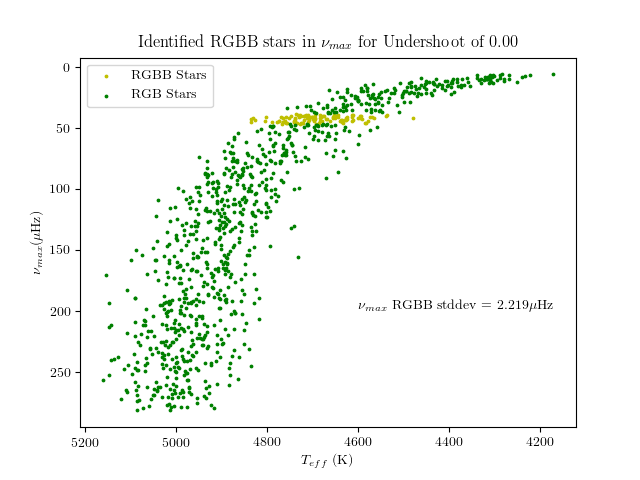
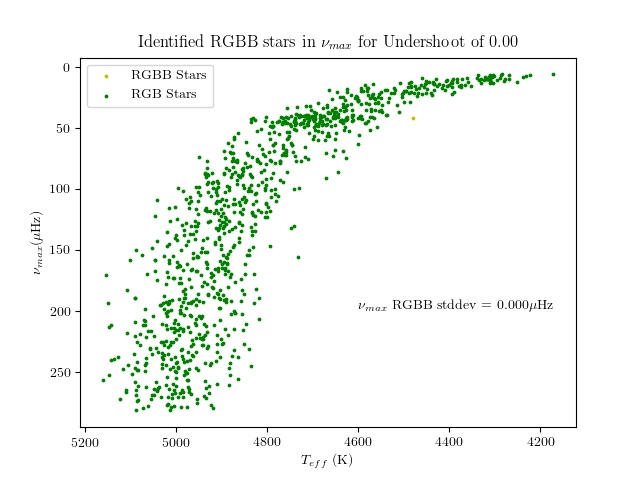
Ran tests on fg/bg likelihood issues for RGBB_Mixmod.py

diff --git a/RGBB_mixmod.py b/RGBB_mixmod.py
@@ -37,23 +37,24 @@ class cModel:
         self.y = _y
 
     def fg(self, p):
-        b, sigb, _, _, _ = p
-        return -0.5 * ((self.x - b) / sigb)**2 - np.log(sigb)
+        b, sigb, _, _, _, _ = p
+        return -0.5 * (((b - self.x) / sigb)**2 + 2*np.log(sigb) + np.log(2*np.pi))
 
     def bg(self, p):
-        _, _, o, sigo, _ = p
-        val = np.abs(self.x).max() + np.abs(self.x).min()
-
-        xn = self.x + val
-        on = np.abs(o)
-
-        return -np.log(xn) -np.log(sigo) - 0.5 * (np.log(xn) - on)**2/sigo**2
-
-
+        _, _, m, c, sigm, _ = p
+        model = m * x + c
+        return -0.5 * (((model - self.y) / sigm)**2 + 2*np.log(sigm) + np.log(2*np.pi))
+    #
     # def bg(self, p):
-    #     _, _, a, c, sigm, _ = p
-    #     M = a + self.x*c
-    #     return -0.5 * ((self.y - M) / sigm)**2 - np.log(sigm)
+    #     _, _, o, sigo, _ = p
+    #     val = np.abs(self.x).max() + np.abs(self.x).min()
+    #
+    #     xn = self.x + val
+    #     on = np.abs(o)
+    #
+    #     return -np.log(xn) -np.log(sigo) - 0.5 * (np.log(xn) - on)**2/sigo**2
+
+
 
 
 if __name__ == '__main__':
@@ -88,16 +89,16 @@ if __name__ == '__main__':
 
 
     ####---SETTING UP AND RUNNING MCMC
-        labels_mc = ["$b$", r"$\sigma(RC)$", "$o$", r"$\sigma(o)$", "$Q$"]
+        # labels_mc = ["$b$", r"$\sigma(RC)$", "$o$", r"$\sigma(o)$", "$Q$"]
+        # bounds = [(lognuguess-.05, lognuguess+.05,), (0.01,0.05), (0.0,2.0), (0.01, 2.), (0, 1)]
+        # start_params = np.array([lognuguess, 0.02, 0.1, 1.0, 0.5])
+        labels_mc = ["$b$", r"$\sigma(b)$", "$m$", "$c$", r"$\sigma(m)$", "$Q$"]
+        std = np.std(y-(x*f[0]+f[1]))
+        start_params = np.array([lognuguess, 0.02, f[0], f[1], std, 0.5])
+        bounds = [(lognuguess-.05, lognuguess+.05,), (0.01,0.05),\
+                     (f[0]-0.02,f[0]+0.02), (f[1]-0.3,f[1]+0.3), \
+                    (std/5,std*5), (0, 1)]
 
-        # labels_mc = ["$b$", r"$\sigma(b)$", "$a$", "$c$", r"$\sigma(m)$", "$Q$"]
-        # start_params = np.array([lognuguess, 0.02, f[1], f[0], np.std(y), 0.5])
-        # bounds = [(lognuguess-.05, lognuguess+.05,), (0.01,0.05),\
-        #             (f[1]-0.3,f[1]+0.3), (f[0]-0.02,f[0]+0.02), \
-        #             (np.std(y)/5,np.std(y)*5), (0, 1)]
-
-        bounds = [(lognuguess-.05, lognuguess+.05,), (0.01,0.05), (0.0,2.0), (0.01, 2.), (0, 1)]
-        start_params = np.array([lognuguess, 0.02, 0.1, 1.0, 0.5])
 
         Model = cModel(x, y)
         lnprior = cPrior.Prior(bounds)
@@ -159,6 +160,8 @@ if __name__ == '__main__':
         ax.set_ylabel(r"$\nu_{max}$($\mu$Hz)")
         fig.savefig('Output/Saniya_RGBB/comparison_'+US+'.png')
         plt.close('all')
+
+        sys.exit()
 
         df['label'] = ''
         df.label[mask] = 'RGBB'

diff --git a/Misc/dfm.py b/Misc/dfm.py
@@ -137,18 +137,36 @@ if __name__ == '__main__':
             norm += 1
     post_prob /= norm
 
+    fig1, ax1 = plt.subplots()
     # Plot the data points.
-    plt.errorbar(x, y, yerr=yerr, fmt=",k", ms=0, capsize=0, lw=1, zorder=999)
+    ax1.errorbar(x, y, yerr=yerr, fmt=",k", ms=0, capsize=0, lw=1, zorder=999)
     # Plot the (true) outliers.
-    plt.scatter(x[m_bkg], y[m_bkg], marker="s", s=22, c=post_prob[m_bkg], cmap="gray_r", vmin=0, vmax=1, zorder=1000)
+    ax1.scatter(x[m_bkg], y[m_bkg], marker="s", s=22, c=post_prob[m_bkg], cmap="gray_r", vmin=0, vmax=1, zorder=1000)
     # Plot the (true) good points.
-    plt.scatter(x[~m_bkg], y[~m_bkg], marker="o", s=22, c=post_prob[~m_bkg], cmap="gray_r", vmin=0, vmax=1, zorder=1000)
+    ax1.scatter(x[~m_bkg], y[~m_bkg], marker="o", s=22, c=post_prob[~m_bkg], cmap="gray_r", vmin=0, vmax=1, zorder=1000)
 
     # Plot the true line.
-    plt.plot(x0, y0, color="k", lw=1.5)
+    ax1.plot(x0, y0, color="k", lw=1.5)
 
-    plt.xlabel("$x$")
-    plt.ylabel("$y$")
-    plt.ylim(-2.5, 2.5)
-    plt.xlim(-2.1, 2.1)
+    ax1.set_xlabel("$x$")
+    ax1.set_ylabel("$y$")
+    ax1.set_ylim(-2.5, 2.5)
+    ax1.set_xlim(-2.1, 2.1)
+
+    chain = sampler.flatchain
+    print('Plotting results...')
+    npa = chain.shape[1]
+    res = np.zeros(npa)
+    std = np.zeros(npa)
+    for idx in np.arange(npa):
+        res[idx] = np.median(chain[:,idx])
+        std[idx] = np.std(chain[:,idx])
+
+    fg = np.exp(lnlike_fg(res))
+    bg = np.exp(lnlike_bg(res))
+    fig, ax = plt.subplots()
+    # ax.scatter(y[mask],bg[mask], marker='s',c=post_prob[m_bkg], cmap="gray_r", vmin=0, vmax=1)
+    # ax.scatter(y[~mask],bg[~mask], marker='o',c=post_prob[~m_bkg], cmap="gray_r", vmin=0, vmax=1)
+    ax.scatter(y[m_bkg],fg[m_bkg],marker='s',c=post_prob[m_bkg], cmap="gray_r", vmin=0, vmax=1)
+    ax.scatter(y[~m_bkg],fg[~m_bkg],marker='o',c=post_prob[~m_bkg], cmap="gray_r", vmin=0, vmax=1)
     plt.show()
